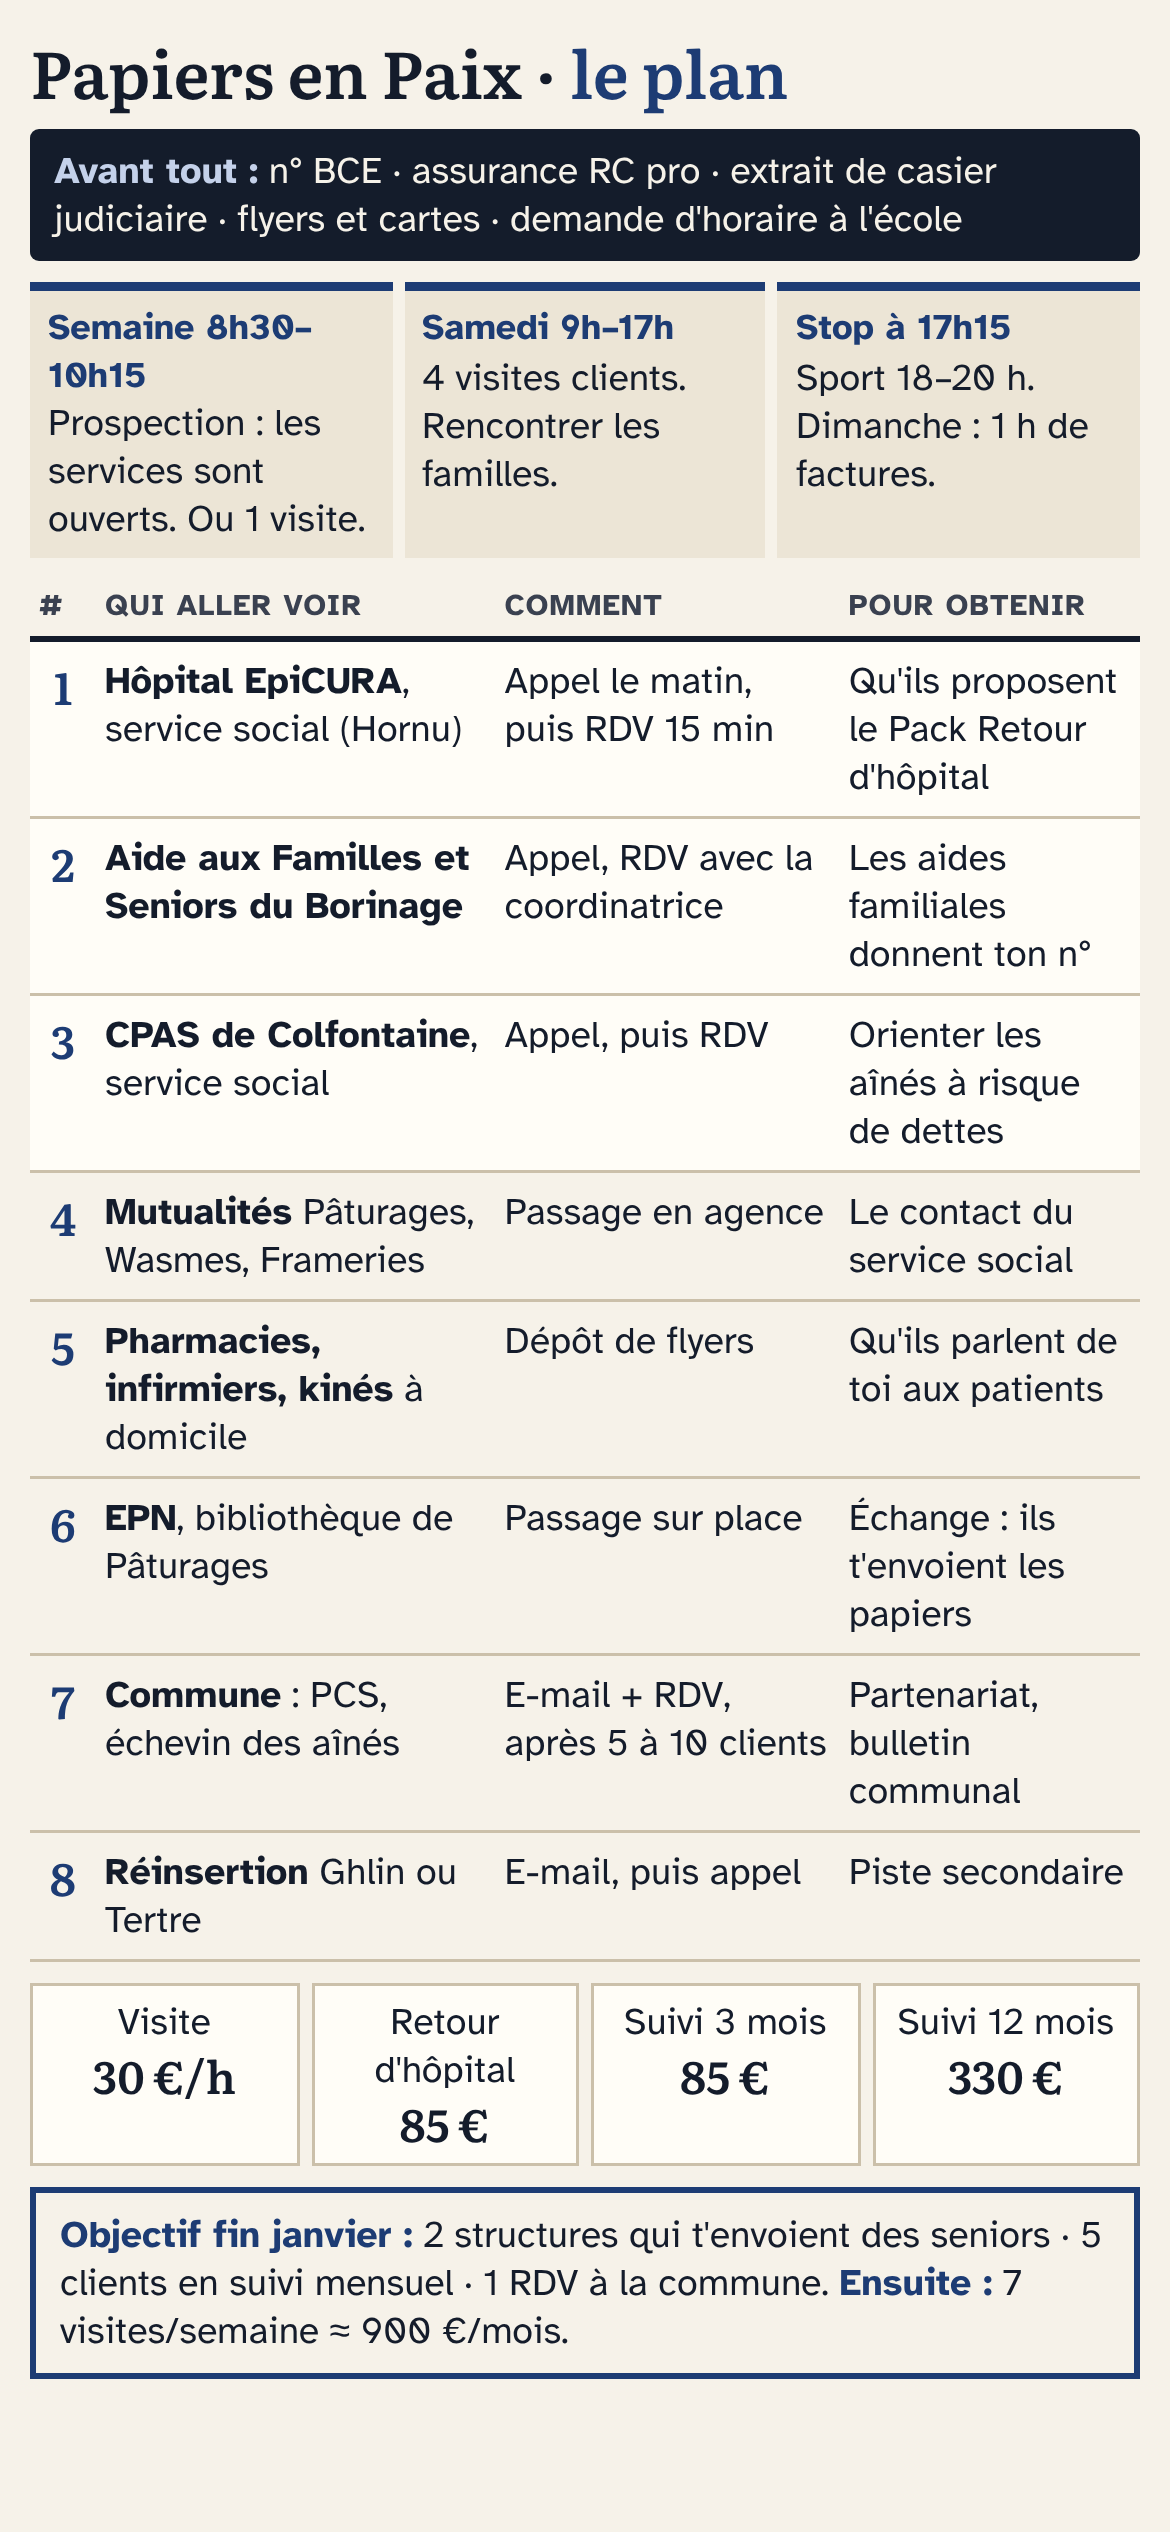
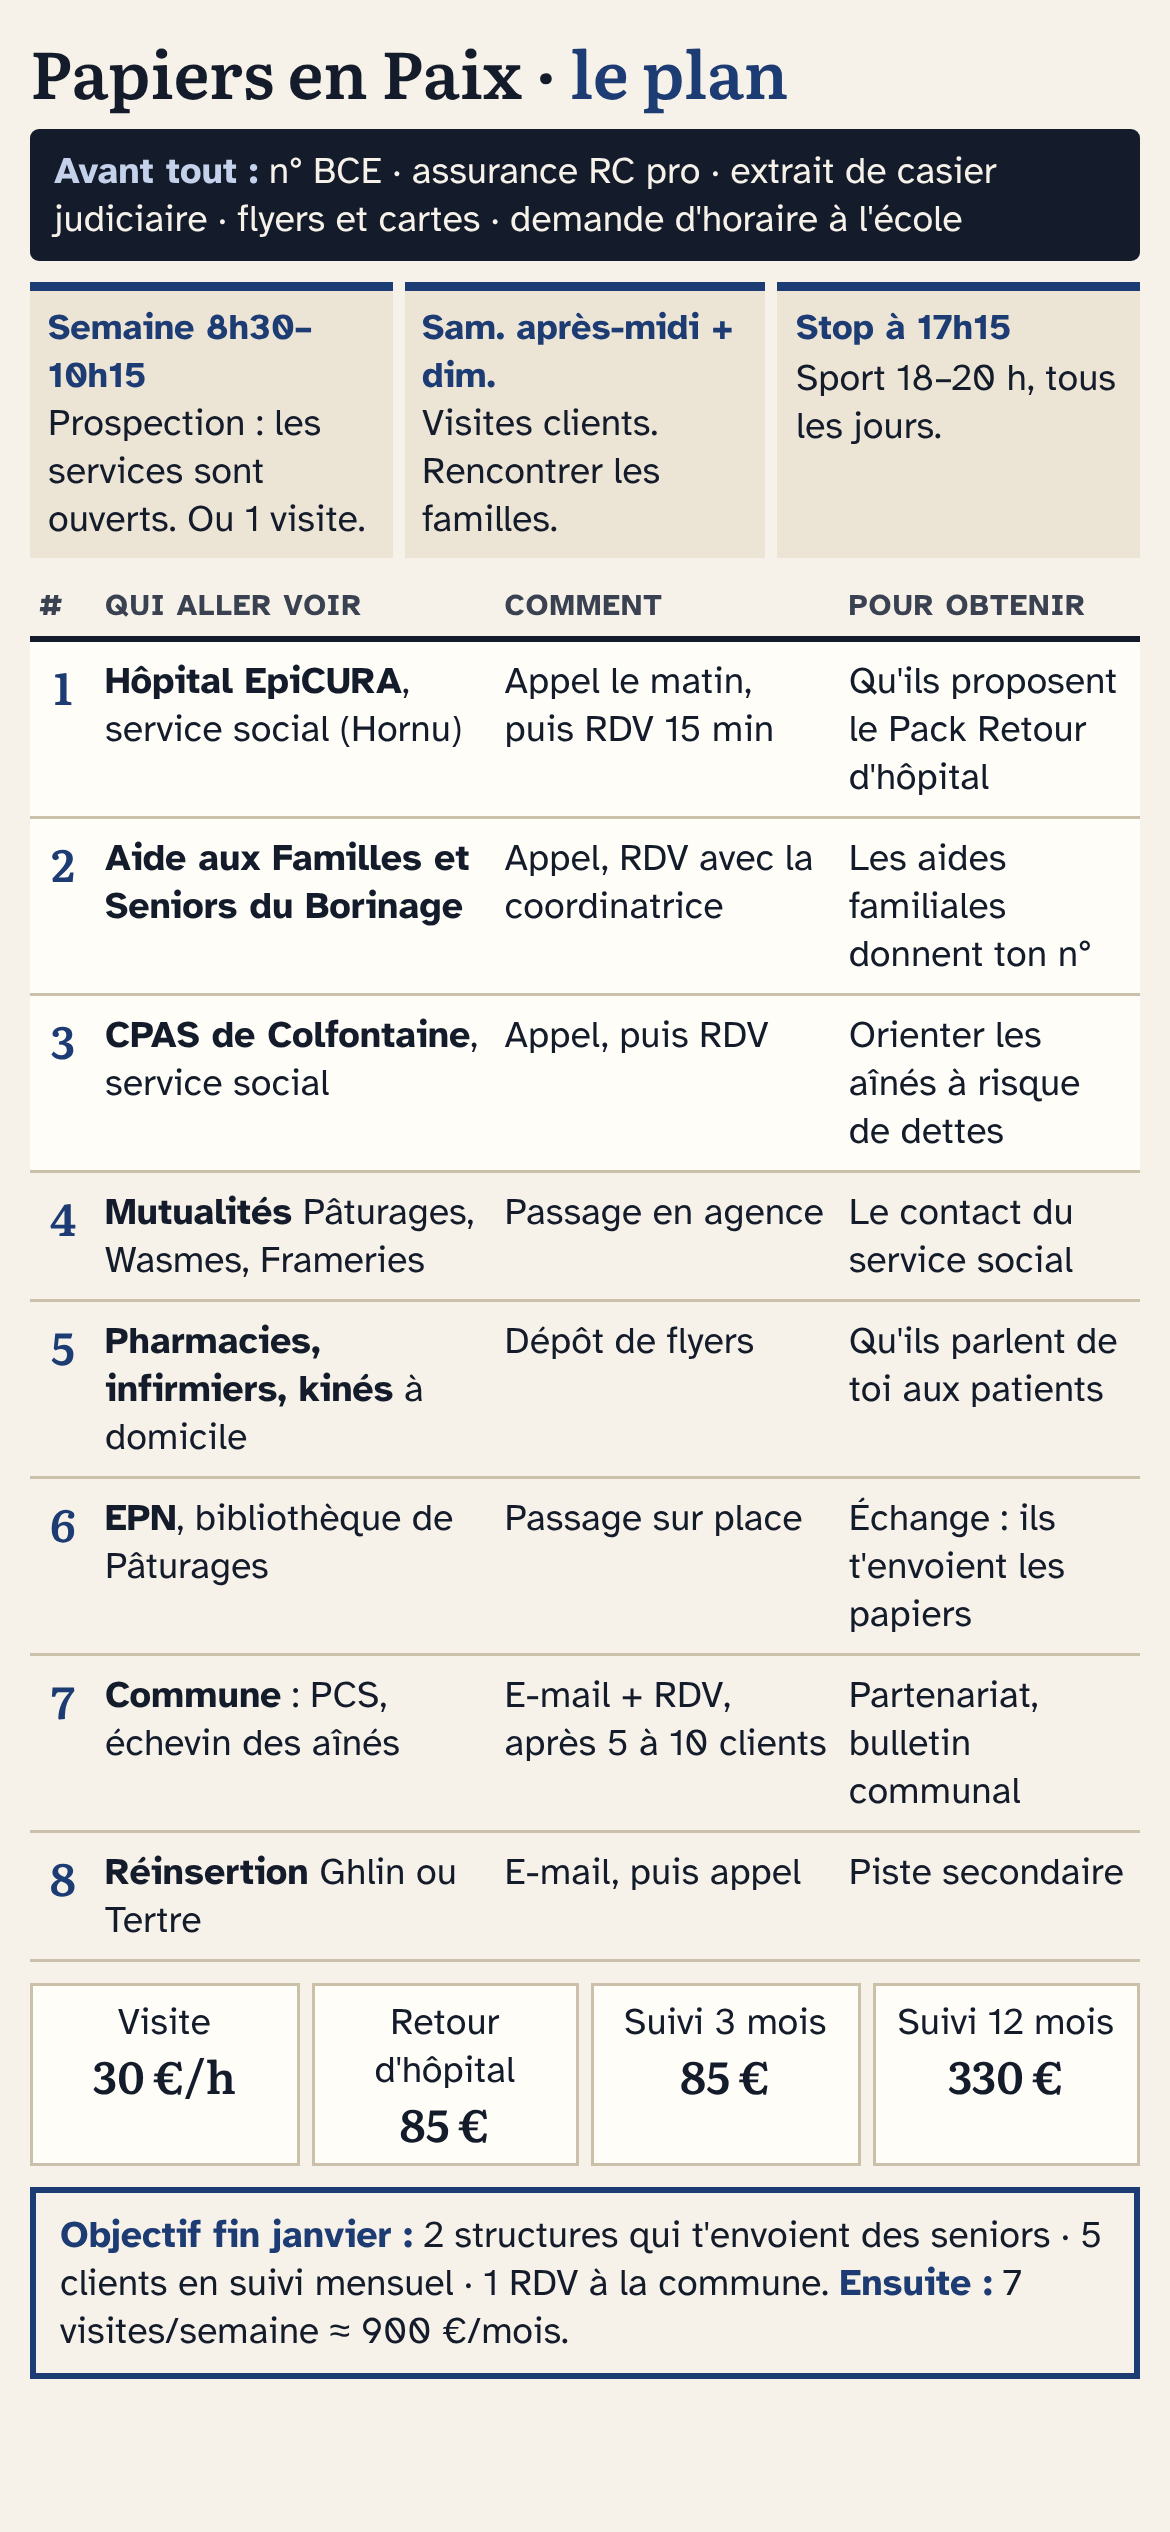
Disponibilités en semaine le matin et le week-end, impôts retirés des exclusions, accroche sur une ligne
Claude-Session: https://claude.ai/code/session_01Sg96BmNtDJQFqZpdNy2hHf

Changed region(s): [[0.3692, 0.1248, 0.5846, 0.2184], [0.6769, 0.156, 0.8, 0.1872], [0.8923, 0.1248, 0.9538, 0.1872]]

diff --git a/site-conciergerie/index.html b/site-conciergerie/index.html
@@ -27,8 +27,9 @@
     "areaServed": "Colfontaine et communes voisines",
     "priceRange": "30 € de l'heure ; formules de 85 € à 330 €",
     "openingHoursSpecification": [
-      { "@type": "OpeningHoursSpecification", "dayOfWeek": "Wednesday", "opens": "13:00", "closes": "18:00" },
-      { "@type": "OpeningHoursSpecification", "dayOfWeek": "Saturday", "opens": "09:00", "closes": "12:30" }
+      { "@type": "OpeningHoursSpecification", "dayOfWeek": ["Monday", "Tuesday", "Wednesday", "Thursday", "Friday"], "opens": "08:30", "closes": "12:00" },
+      { "@type": "OpeningHoursSpecification", "dayOfWeek": "Saturday", "opens": "13:00", "closes": "17:00" },
+      { "@type": "OpeningHoursSpecification", "dayOfWeek": "Sunday", "opens": "10:00", "closes": "17:00" }
     ],
     "taxID": "[NUMÉRO BCE]"
   }
@@ -53,7 +54,7 @@
         <div>
           <p class="entete__surtitre">Aide administrative à domicile · Colfontaine</p>
           <h1>Vos papiers en ordre, <em>sans vous presser.</em></h1>
-          <p class="entete__accroche">Je m'appelle Enzo. Je viens chez vous pour trier le courrier, suivre les factures de santé et les remboursements de la mutuelle. On avance ensemble, à votre rythme.</p>
+          <p class="entete__accroche">Je m'appelle Enzo. Je viens chez vous pour trier le courrier, suivre les factures de santé et <span class="insecable">les remboursements de la mutuelle</span>. On avance ensemble, à votre rythme.</p>
           <a class="bouton bouton--grand" href="tel:+32495620910">
             Appeler Enzo
             <span class="bouton__detail">0495&nbsp;62&nbsp;09&nbsp;10</span>
@@ -65,7 +66,7 @@
           <h2 class="fiche__titre" id="t-fiche">En bref</h2>
           <dl>
             <div class="fiche__ligne"><dt>Tarif</dt><dd>30&nbsp;€ de l'heure</dd></div>
-            <div class="fiche__ligne"><dt>Quand</dt><dd>Mercredi après-midi et samedi matin</dd></div>
+            <div class="fiche__ligne"><dt>Quand</dt><dd>En semaine le matin, le samedi après-midi et le dimanche</dd></div>
             <div class="fiche__ligne"><dt>Où</dt><dd>Colfontaine et communes voisines</dd></div>
             <div class="fiche__ligne"><dt>Formules</dt><dd>Visite seule, ou suivi mensuel dès 85&nbsp;€. Jamais de reconduction automatique.</dd></div>
           </dl>
@@ -120,7 +121,6 @@
             <tr><th scope="col">Je ne fais pas</th><th scope="col">Adressez-vous plutôt à</th></tr>
           </thead>
           <tbody>
-            <tr><th scope="row">La déclaration d'impôts</th><td>un comptable, ou le SPF Finances</td></tr>
             <tr><th scope="row">Les successions</th><td>un notaire</td></tr>
             <tr><th scope="row">Les litiges</th><td>un avocat, ou un service d'aide juridique</td></tr>
             <tr><th scope="row">Les soins</th><td>votre médecin ou votre infirmier</td></tr>
@@ -283,7 +283,7 @@
             <li>Ou, avec l'accord du patient, appelez-moi vous-même pour fixer une première visite.</li>
             <li>Imprimez le flyer et laissez-le au domicile ou dans votre salle d'attente.</li>
           </ol>
-          <p class="pros__note">Je ne fais ni soins, ni démarches juridiques ou fiscales. Je ne demande aucune information médicale&nbsp;: je trie et je suis les papiers que la personne me montre, chez elle.</p>
+          <p class="pros__note">Je ne fais ni soins, ni démarches juridiques. Je ne demande aucune information médicale&nbsp;: je trie et je suis les papiers que la personne me montre, chez elle.</p>
           <div class="actions">
             <button type="button" class="bouton" id="imprimer-flyer">Imprimer le flyer (A4)</button>
             <a class="bouton bouton--contour" href="tel:+32495620910">Appeler&nbsp;: 0495&nbsp;62&nbsp;09&nbsp;10</a>
@@ -381,7 +381,7 @@
             </div>
             <div>
               <dt>Disponibilités</dt>
-              <dd>Mercredi après-midi et samedi matin.</dd>
+              <dd>En semaine le matin, le samedi après-midi et le dimanche.</dd>
             </div>
           </dl>
           <p class="avertissement lecture">N'envoyez aucun document ni information médicale par e-mail. On regarde vos papiers ensemble, chez vous.</p>
@@ -426,7 +426,7 @@
       <div>
         <h2>Ce que je ne fais pas</h2>
         <ul>
-          <li>Impôts, successions, litiges (je renvoie vers un professionnel)</li>
+          <li>Successions, litiges (je renvoie vers un professionnel)</li>
           <li>Soins</li>
           <li>Aide ménagère</li>
         </ul>
@@ -450,7 +450,7 @@
       </div>
       <div>
         <h2>Disponibilités</h2>
-        <p>Mercredi après-midi et samedi matin.<br>Colfontaine et communes voisines (15&nbsp;minutes maximum).</p>
+        <p>En semaine le matin, le samedi après-midi et le dimanche.<br>Colfontaine et communes voisines (15&nbsp;minutes maximum).</p>
       </div>
     </div>
 

diff --git a/conciergerie-docs/plan-une-page.html b/conciergerie-docs/plan-une-page.html
@@ -45,8 +45,8 @@
 
   <div class="horaire">
     <div><b>Semaine 8h30–10h15</b>Prospection : les services sont ouverts. Ou 1 visite.</div>
-    <div><b>Samedi 9h–17h</b>4 visites clients. Rencontrer les familles.</div>
-    <div><b>Stop à 17h15</b>Sport 18–20 h. Dimanche : 1 h de factures.</div>
+    <div><b>Sam. après-midi + dim.</b>Visites clients. Rencontrer les familles.</div>
+    <div><b>Stop à 17h15</b>Sport 18–20 h, tous les jours.</div>
   </div>
 
   <table>

diff --git a/site-conciergerie/css/style.css b/site-conciergerie/css/style.css
@@ -258,6 +258,7 @@ strong { font-weight: 700; }
   color: var(--accent);
 }
 .entete__accroche { font-size: 1.35rem; margin-bottom: 2rem; }
+.insecable { white-space: nowrap; }
 .entete__rassurance {
   margin: 1rem 0 0;
   font-size: 1.1rem;

diff --git a/conciergerie-docs/plan-seniors-optimise.md b/conciergerie-docs/plan-seniors-optimise.md
@@ -16,8 +16,8 @@ Cette version retire les cabinets d'avocats (une autre idée) et part de ton vra
 |---|---|---|
 | **En semaine, avant les cours** (par exemple 8 h 30 à 10 h 15 quand tu commences à 11 h) | **1 visite client** ou **2 démarches** de prospection | Les seniors sont levés et disponibles. Les services sociaux ouvrent vers 8 h 30 : c'est **le seul moment où tu peux les joindre**, car ils sont fermés le week-end. |
 | **En semaine, après les cours** (si tu finis avant 15 h 30) | **1 visite client** | Créneau court, à garder pour les clients réguliers proches de chez toi. |
-| **Samedi** 9 h à 12 h 30 et 14 h à 17 h | **4 visites** | Ton gros créneau. Les familles sont souvent présentes : c'est le moment de rencontrer les enfants, qui paient. |
-| **Dimanche** | **1 heure d'administration** (factures, fichier de suivi, rappels) et **1 visite au maximum**, seulement si la famille la demande | Garde du repos : la régularité compte plus que le volume. |
+| **Samedi après-midi** 13 h à 17 h | **2 à 3 visites** | Les familles sont souvent présentes : c'est le moment de rencontrer les enfants, qui paient. |
+| **Dimanche** 10 h à 17 h | **2 visites** et 1 heure d'administration (factures, suivi, rappels) | Les enfants rendent souvent visite à leurs parents le dimanche. |
 
 **Une visite prend en réalité 1 h 30** : 1 h chez la personne et environ 30 minutes de trajet. C'est cette durée qui fixe ton nombre de visites possibles.
 
@@ -33,9 +33,9 @@ Base de calcul : **40 € par visite en moyenne** (entre 1 h et 1 h 30), **38 se
 
 | Scénario | Visites par semaine | D'où elles viennent | Chiffre d'affaires par an | En moyenne par mois |
 |---|---|---|---|---|
-| **1. Démarrage** (mois 1 à 3) | 4 | Le samedi seulement | **≈ 6 100 €** | ≈ 500 € |
-| **2. Réaliste** (après 6 mois) | 7 | 4 le samedi et 3 en semaine | **≈ 10 600 €** | ≈ 900 € |
-| **3. Avec un partenariat communal** | 10 | 4 à 5 le samedi, 5 en semaine, avec 2 matinées libérées par l'école | **≈ 15 200 €** | ≈ 1 270 € |
+| **1. Démarrage** (mois 1 à 3) | 4 | Le week-end seulement | **≈ 6 100 €** | ≈ 500 € |
+| **2. Réaliste** (après 6 mois) | 7 | 4 le week-end et 3 en semaine | **≈ 10 600 €** | ≈ 900 € |
+| **3. Avec un partenariat communal** | 10 | 4 à 5 le week-end, 5 en semaine, avec 2 matinées libérées par l'école | **≈ 15 200 €** | ≈ 1 270 € |
 
 **Ce qu'il faut pour remplir ces créneaux :** environ **20 clients en suivi mensuel** (une visite par mois chacun, soit 5 par semaine), plus quelques visites ponctuelles. Le suivi mensuel est donc la clé (section 4).
 
@@ -72,7 +72,7 @@ Ce sont tous des **prescripteurs** : des professionnels qui voient des seniors d
 
 ### Et le week-end ?
 
-Les prescripteurs sont fermés, mais les **familles** sont là. Le samedi, tu peux :
+Les prescripteurs sont fermés, mais les **familles** sont là. Le week-end, tu peux :
 - laisser des flyers dans les **pharmacies, boulangeries et salles d'attente** de Pâturages, Wasmes et Warquignies, avec l'accord du commerçant ;
 - profiter de tes visites pour **rencontrer les enfants** des clients et leur proposer le suivi mensuel.
 
@@ -84,7 +84,7 @@ Les prescripteurs sont fermés, mais les **familles** sont là. Le samedi, tu pe
 |---|---|---|
 | **Visite ponctuelle** | 1 h minimum, puis par demi-heure | 30 € / h, puis 15 € par demi-heure entamée |
 | **Pack « Retour d'hôpital »** | 3 visites en 6 semaines : tout remettre en ordre, puis suivre les remboursements | **85 €** au lieu de 90 € |
-| **Suivi 3 mois** (la formule à pousser) | 1 visite d'1 h par mois, **toujours le même créneau** (par exemple le 1er samedi du mois à 10 h) | **85 €** |
+| **Suivi 3 mois** (la formule à pousser) | 1 visite d'1 h par mois, **toujours le même créneau** (par exemple le 1er dimanche du mois à 10 h) | **85 €** |
 | **Suivi 12 mois** | Idem, sur un an | **330 €** au lieu de 360 € |
 
 Les règles qui rassurent :
@@ -117,7 +117,7 @@ Si la commune ou le CPAS t'envoie régulièrement des personnes, ton activité g
 **Ce que tu peux proposer :**
 - **une orientation officielle** : le CPAS, le Plan de cohésion sociale et le service des aînés donnent ton numéro aux seniors qui en ont besoin ;
 - **un article dans le bulletin communal de Colfontaine**, distribué dans toutes les boîtes aux lettres. Un « jeune de Colfontaine qui aide les aînés » est un sujet qui intéresse la commune ;
-- **des permanences** à la bibliothèque ou dans un lieu communal, par exemple un samedi matin par mois, pour rencontrer des seniors sur place ;
+- **des permanences** à la bibliothèque ou dans un lieu communal, par exemple un samedi après-midi par mois, pour rencontrer des seniors sur place ;
 - **à plus long terme, un financement** : la Wallonie a déjà lancé des appels à projets « Aide aux seniors » dans son plan d'inclusion numérique. Une commune ou un CPAS peut y répondre avec un partenaire de terrain. Rien n'est garanti, mais c'est la question à poser.
 
 **Comment t'y prendre :**
@@ -205,7 +205,7 @@ Pour tes cibles, **le contact direct marche mieux que l'e-mail**. Les assistante
 
 ## 8. Le plan sur 8 semaines
 
-| Semaine | Matins en semaine (avant les cours) | Samedi | Objectif |
+| Semaine | Matins en semaine (avant les cours) | Week-end | Objectif |
 |---|---|---|---|
 | **0** | BCE, assurance, casier judiciaire, demande d'aménagement à l'école | Imprimer flyers et cartes | Tout est prêt |
 | **1** | Appels : EpiCURA, SAFSB, CPAS | Flyers dans 5 commerces | 3 rendez-vous fixés |

diff --git a/conciergerie-docs/partenaires-colfontaine.md b/conciergerie-docs/partenaires-colfontaine.md
@@ -43,7 +43,7 @@ Deux règles à garder en tête :
 > - suivre les remboursements de la mutuelle ;
 > - l'aider à faire ses paiements en ligne, en la laissant toujours taper elle-même ses codes.
 >
-> Je ne m'occupe ni des impôts, ni des successions, ni des litiges : je renvoie alors vers les professionnels.
+> Je ne m'occupe ni des successions, ni des litiges : je renvoie alors vers les professionnels.
 >
 > Je m'engage par écrit à ne jamais demander de codes bancaires ni de mots de passe, à ne prendre aucune procuration, à ne pas toucher à l'argent liquide, à ne garder aucune copie des documents et à respecter la confidentialité.
 >
